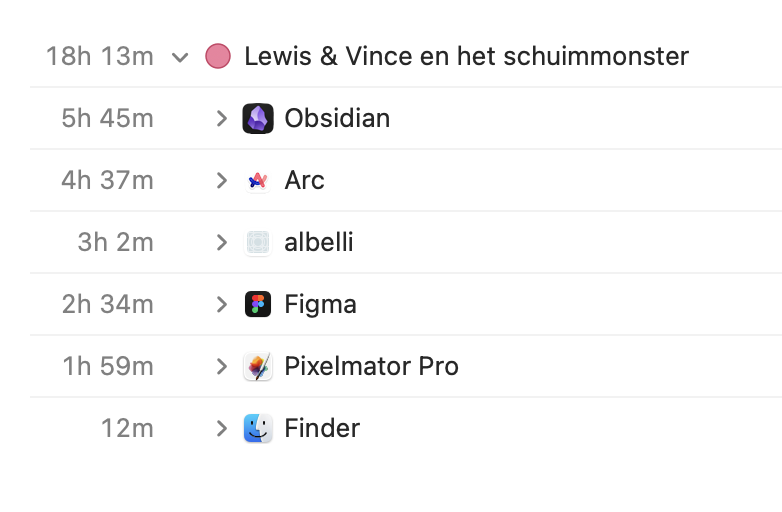
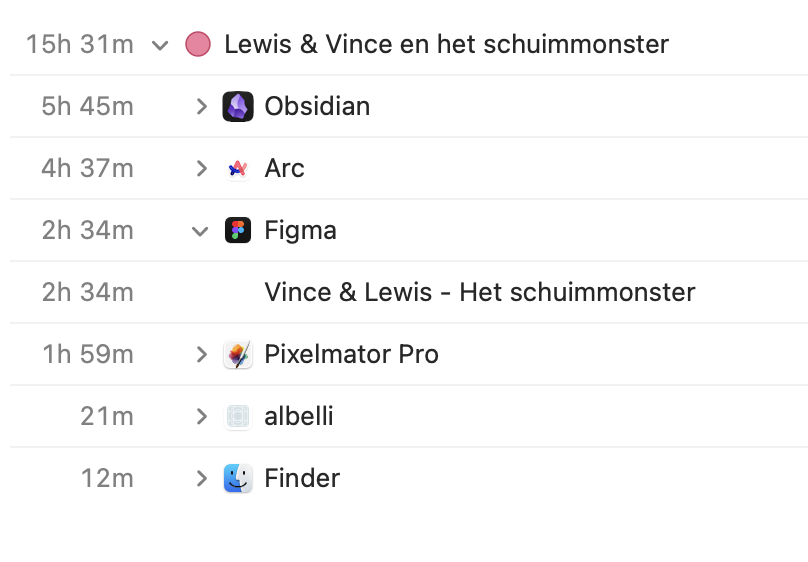
Fix: time tracking results where wroing

diff --git a/src/site/posts/2025/2025-02-12-how-i-wrote-and-illustrated-a-childrens-book-using-ai.md b/src/site/posts/2025/2025-02-12-how-i-wrote-and-illustrated-a-childrens-book-using-ai.md
@@ -187,7 +187,7 @@ I don't want to brag, but I'm super proud of the end result!
 We ordered a few more copies and give them to our closest family and friends. I inscribed a personal message into each book, thanking everyone for the role they play in our lives.
 
 ## Time spent
-Overall, I spent a roughly 18 hours working on this project. Most of my time was spent writing the outline and story in Obsidian.
+Overall, I spent a roughly 15 hours working on this project. Most of my time was spent writing the outline and story in Obsidian.
 
 
 ![](/uploads/2025-02-how-i-wrote-childrens-book-with-ai/time-spent-writing-book.png)
